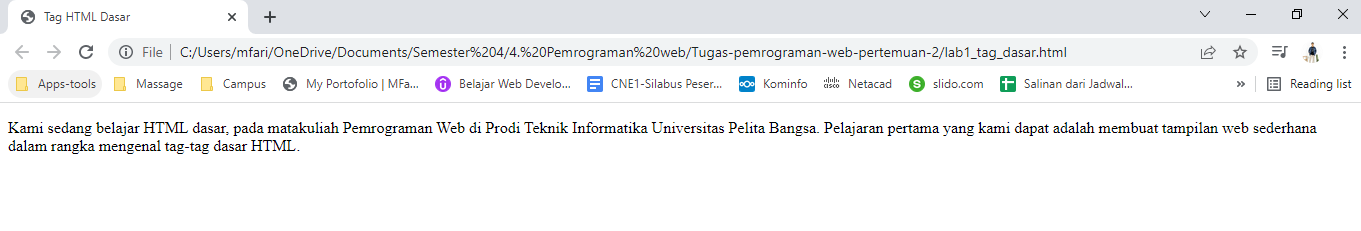
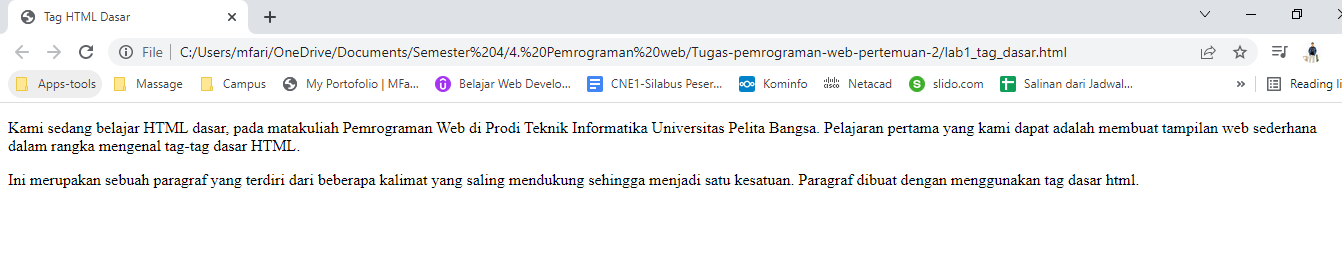
Update README.md

diff --git a/lab1_tag_dasar.html b/lab1_tag_dasar.html
@@ -6,6 +6,9 @@
 <body>
     <p>Kami sedang belajar HTML dasar, pada matakuliah Pemrograman Web di Prodi 
     Teknik Informatika Universitas Pelita Bangsa. Pelajaran pertama yang kami dapat
-    adalah membuat tampilan web sederhana dalam rangka mengenal tag-tag dasar HTML.</p>  
+    adalah membuat tampilan web sederhana dalam rangka mengenal tag-tag dasar HTML.</p>
+    <p>Ini merupakan sebuah paragraf yang terdiri dari beberapa kalimat yang saling
+    mendukung sehingga menjadi satu kesatuan. Paragraf dibuat dengan menggunakan
+    tag dasar html.</p>
 </body>
 </html>

diff --git a/README.md b/README.md
@@ -26,7 +26,7 @@ Langkah pertama untuk memnuhi tugas ini adalah membuat file baru dengan nama : l
 
 ![gambar pertama](image/taghtmldasar.PNG) <br>
 
-**1. Membuat paragraf**
+**1. Membuat paragraf**<br>
 Pada paragraf saya akan menambahkan sebuah kalimat :<br>
 Kami sedang belajar HTML dasar, pada matakuliah Pemrograman Web di Prodi
 Teknik Informatika Universitas Pelita Bangsa. Pelajaran pertama yang kami dapat adalah membuat tampilan web sederhana dalam rangka mengenal tag-tag dasar HTML.<br>
@@ -45,7 +45,10 @@ tag dasar html.<br>
 <body>
     <p>Kami sedang belajar HTML dasar, pada matakuliah Pemrograman Web di Prodi 
     Teknik Informatika Universitas Pelita Bangsa. Pelajaran pertama yang kami dapat
-    adalah membuat tampilan web sederhana dalam rangka mengenal tag-tag dasar HTML.</p>  
+    adalah membuat tampilan web sederhana dalam rangka mengenal tag-tag dasar HTML.</p>
+    <p>Ini merupakan sebuah paragraf yang terdiri dari beberapa kalimat yang saling
+    mendukung sehingga menjadi satu kesatuan. Paragraf dibuat dengan menggunakan
+    tag dasar html.</p>
 </body>
 </html>
 ```
